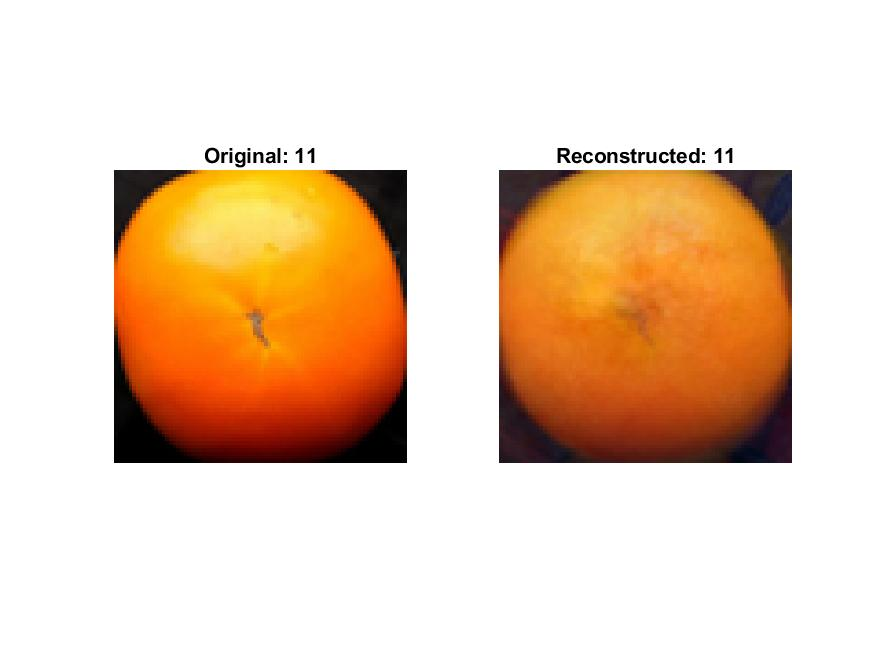
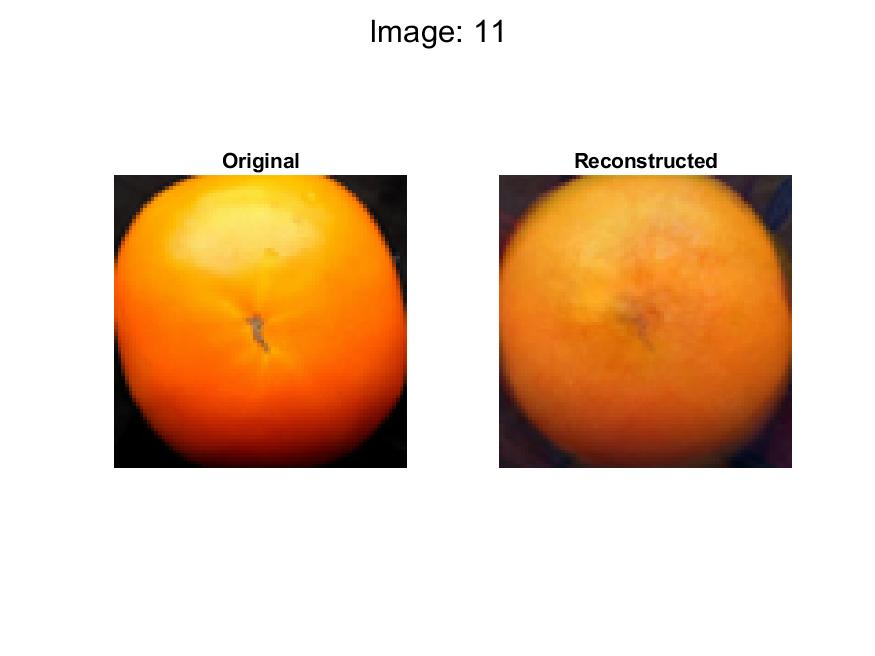
Q6: Completed

diff --git a/code/q6.m b/code/q6.m
@@ -1,6 +1,7 @@
 clc;
 clear;
 close all;
+rng(42);
 
 % Reading the data
 DATA_PATH = "../data/data_fruit/";
@@ -32,7 +33,6 @@ data = data./255;
 % Compute sample mean of the original (normalized) data
 mu = sum(data, 2)./N;
 
-% Preprocessing:
 % Centering the data about mu
 data = data - mu; 
 
@@ -65,6 +65,7 @@ for i=2:5
     axis off;
     title("Eigenvector: " + (i-1));
 end
+sgtitle("Mean and the eigenvectors");
 saveas(gcf, "plots/q6/q6i.jpg");
 clear i;
 
@@ -90,16 +91,38 @@ for i=1:16
     f = figure('visible', 'off');
     subplot(1, 2, 1);
     image(toImg(mu + data(:, i), SHAPE)); % Original uncentered image
-    title("Original: "+i);
+    title("Original");
     pbaspect([1 1 1]);
     axis off;
     subplot(1, 2, 2);
     image(toImg(data_reconstructed(:, i), SHAPE));
-    title("Reconstructed: "+i);
+    title("Reconstructed");
     pbaspect([1 1 1]);
+    sgtitle("Image: "+i);
     axis off;
     saveas(f, "plots/q6/comparison_"+i+".jpg");
 end
+
+% Part 3: Probabilistic PCA
+n_samples = 3;
+% Sampling the coefficients: coeffs ~ N(0, I)
+mu_mvg = zeros(4,1);
+cov_mvg = diag(max(coeffs)-min(coeffs));
+sampled_coeffs = mvnrnd(mu_mvg, cov_mvg, n_samples);
+generated_data = mu + Q4*sampled_coeffs';
+
+% Plotting the generated images:
+figure;
+for i=1:n_samples
+    subplot(1, n_samples, i);
+    image(toImg(generated_data(:, i), SHAPE));
+    pbaspect([1 1 1]);
+    axis off;
+    title("Generated image no. "+i);
+end
+sgtitle("Generated fruits");
+clear i;
+saveas(gcf, "plots/q6/generated_fruits.jpg");
 
 % MinMax scaler for scaling images to [0, 1]
 function [y] = toImg(x, shape)
